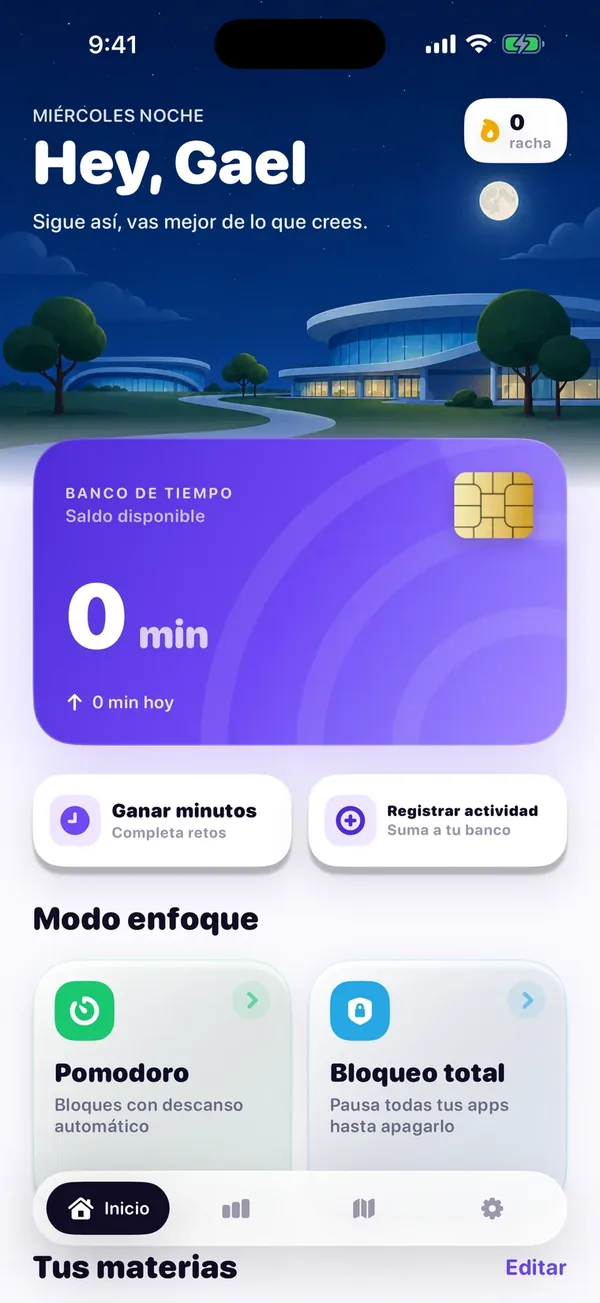
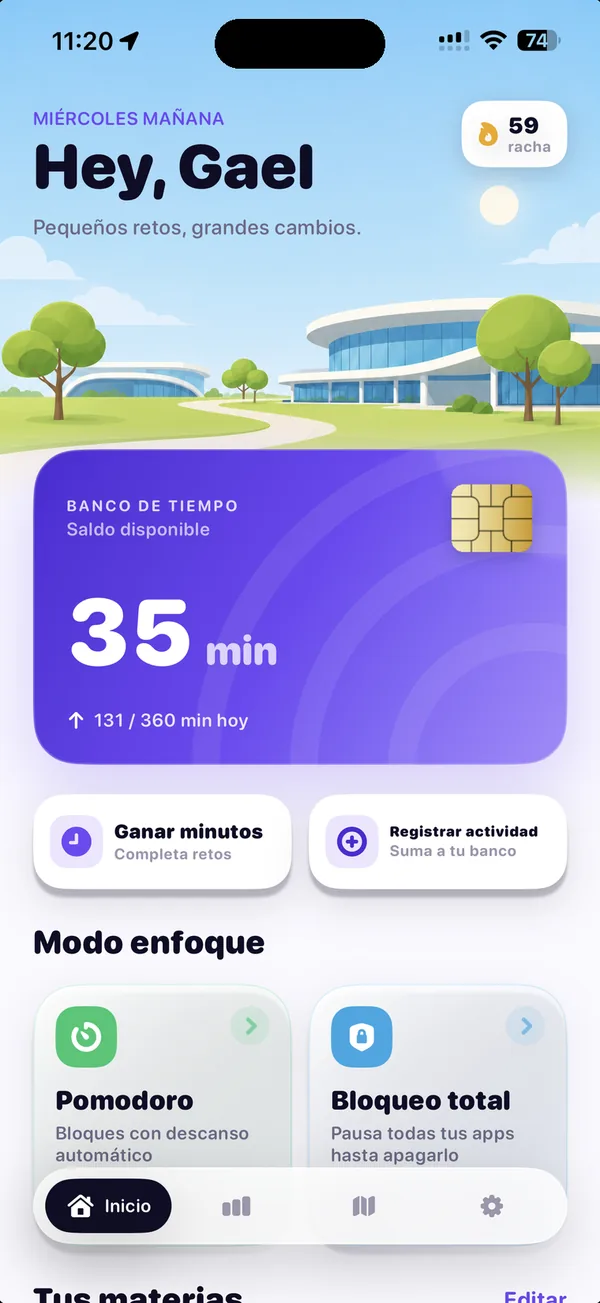
assets+landing: Home ES con saldo real y mockup mas grande
es/home.webp y es/home-600.webp pasan a la captura nueva en espanol
(BANCO DE TIEMPO, 35 min, 131/360 hoy, racha 59), mismo tratamiento que
la EN: recorte lateral a 760:1651 sin estirar y Dynamic Island compuesta
con las medidas de las otras capturas del sitio.

Mockup mas grande en los dos layouts:
- movil: --phone-w de min(46vw,17.5vh,220px) a min(58vw,22vh,270px)
  (137 -> 172px en un iPhone de 812), con la tarjeta activa aun entera.
- desktop: el tope de 30vh dejaba el mockup en 227px en portatiles; pasa
  a min(340px, (100vh - 150px)/2.172), que toma el ancho mas grande que
  entra completo dejando holgura para los extremos del recorrido sticky
  (281px con 760 de alto, +24%).
- .steps sube a padding 22vh/24vh: le da al sticky el recorrido que ese
  tamano necesita para no cortarse ni en el paso 1 ni en el 3.

diff --git a/landing.css b/landing.css
@@ -429,7 +429,7 @@ section { padding: clamp(4rem, 9vw, 7rem) 0; }
     position: sticky;
     top: calc(var(--nav-h) + 0.4rem);
     z-index: 4;
-    --phone-w: min(46vw, 17.5vh, 220px);
+    --phone-w: min(58vw, 22vh, 270px);
     width: var(--phone-w);
     margin-inline: auto;
     padding-bottom: 0.1rem;
@@ -655,14 +655,15 @@ section { padding: clamp(4rem, 9vw, 7rem) 0; }
      mientras el tercer paso todavía está activo. */
   .how-visual {
     position: sticky;
-    /* El alto del mockup es ~2.172x su ancho: se acota por vh para que
-       quepa entero en portatiles bajos, y se centra con esa misma mitad. */
-    --phone-w: min(300px, 30vh);
+    /* El alto del mockup es ~2.172x su ancho: se toma el ancho mas grande
+       que entra completo dejando holgura para los extremos del recorrido
+       (con el padding de .steps, entero en los tres pasos). */
+    --phone-w: min(340px, calc((100vh - 150px) / 2.172));
     width: var(--phone-w);
     top: max(calc(var(--nav-h) + 0.75rem), calc(50vh - var(--phone-w) * 1.086));
     align-self: start;
   }
-  .steps { padding: 12vh 0 18vh; }
+  .steps { padding: 22vh 0 24vh; }
   .subject-grid { grid-template-columns: repeat(3, 1fr); }
   .stat-strip { grid-template-columns: repeat(4, 1fr); }
   .focus-grid { grid-template-columns: 1.05fr 0.95fr; }
@@ -672,6 +673,6 @@ section { padding: clamp(4rem, 9vw, 7rem) 0; }
 /* ══ Desktop (1024px) ════════════════════════════════════════════ */
 @media (min-width: 1024px) {
   .hero-visual { --phone-w: 330px; width: var(--phone-w); }
-  .how-visual { --phone-w: min(300px, 30vh); width: var(--phone-w); }
+  .how-visual { --phone-w: min(340px, calc((100vh - 150px) / 2.172)); width: var(--phone-w); }
   .focus-visual { --phone-w: 300px; width: var(--phone-w); }
 }
